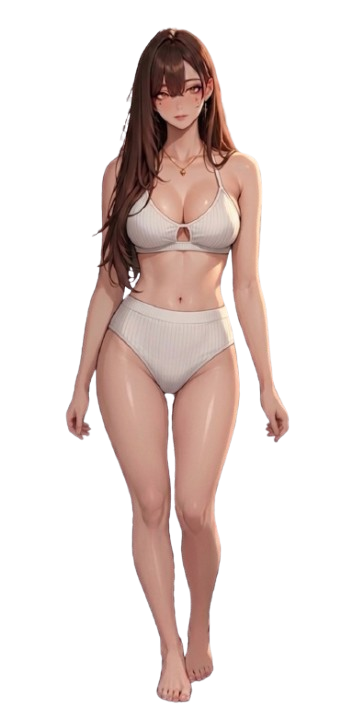
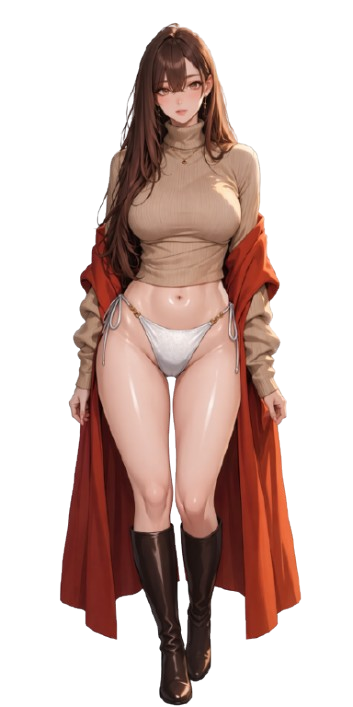
Re-add E1_stage2 as skirt-first tier-1 image
The artist repurposed E1_stage2.png — it no longer shows the old
"skirt-off, belt-on" state (belt was merged into skirt last commit).
The new art depicts boots + cape + sweater all on, skirt removed, with
a white swimsuit bottom revealed. This gives every first-removal
choice its own dedicated tier-1 image:

  boots first   → E1_stage5
  cape first    → E1_stage6
  sweater first → E1_stage7
  skirt first   → E1_stage2  (NEW meaning)

- StageKey / STAGE_ORDER / STAGE_TIER re-list E1_stage2 at tier 1.
- STAGE_REQUIREMENTS maps E1_stage2 to the {skirt} subset so the
  subset matcher picks it when skirt is the only thing removed.
- skirt.stageAfter updated to E1_stage2 (documentation).
- public/assets/E1_stage2.png refreshed to the new artwork.

diff --git a/src/data/parts.ts b/src/data/parts.ts
@@ -5,6 +5,7 @@ export type StageKey =
   | "E1_stage5"
   | "E1_stage6"
   | "E1_stage7"
+  | "E1_stage2"
   | "E1_stage4"
   | "E1_stage3"
   | "E1_swim";
@@ -37,23 +38,26 @@ export const STAGE_ORDER: StageKey[] = [
   "E1_stage5",
   "E1_stage6",
   "E1_stage7",
+  "E1_stage2",
   "E1_stage4",
   "E1_stage3",
   "E1_swim",
 ];
 
 // Tier = how many "stage-advancing" parts have been removed at the time
-// this image is the correct one to show. Tier 1 has THREE possible
-// branching images now:
+// this image is the correct one to show. Tier 1 has FOUR branching
+// images — one dedicated image per possible first-removal choice:
 //  - stage5 when the first removed part is boots
 //  - stage6 when the first removed part is cape
 //  - stage7 when the first removed part is sweater
+//  - stage2 when the first removed part is skirt (bottom-only swimsuit)
 // Tiers 2+ always converge regardless of which order the player chose.
 export const STAGE_TIER: Record<StageKey, number> = {
   E1: 0,
   E1_stage5: 1,
   E1_stage6: 1,
   E1_stage7: 1,
+  E1_stage2: 1,
   E1_stage4: 2,
   E1_stage3: 3,
   E1_swim: 4,
@@ -66,10 +70,9 @@ export const STAGE_TIER: Record<StageKey, number> = {
 // the combination matches an authored image, the visual advances;
 // otherwise it stays on the last-best image (and the part still counts
 // as removed in the progress UI).
-// NOTE: E1_stage2 (skirt-off / belt-on) was removed from the active set
-// because belt is no longer a standalone part — the "skirt + belt both
-// off" state is now the finale (E1_swim) directly. The asset file is
-// still on disk but nothing preloads or references it.
+// NOTE: E1_stage2 was re-authored to depict "skirt-off, everything else
+// on" — the bottom-only swimsuit state. It's now the tier-1 image for
+// a skirt-first removal, symmetric with stage5/6/7.
 const STAGE_REQUIREMENTS: [StageKey, string[]][] = [
   ["E1_swim",   ["boots", "cape", "sweater", "skirt"]],
   ["E1_stage3", ["boots", "cape", "sweater"]],
@@ -77,6 +80,7 @@ const STAGE_REQUIREMENTS: [StageKey, string[]][] = [
   ["E1_stage5", ["boots"]],
   ["E1_stage6", ["cape"]],
   ["E1_stage7", ["sweater"]],
+  ["E1_stage2", ["skirt"]],
   ["E1",        []],
 ];
 
@@ -170,10 +174,9 @@ export const PARTS: PartDef[] = [
     // Rich chocolate brown
     tint: 0x5c3d2e,
     order: 4,
-    // E1_stage2 was authored for "skirt off, belt on" which no longer
-    // exists as a state — skirt removal now takes both off, going
-    // straight to the finale image via the isFinished() path.
-    stageAfter: null,
+    // skirt 단독 제거 시 전용 이미지는 E1_stage2 (하의만 수영복).
+    // 실제 이미지 선택은 stageForRemoved()의 부분집합 매칭이 결정함.
+    stageAfter: "E1_stage2",
     prerequisites: [],
   },
 ];
